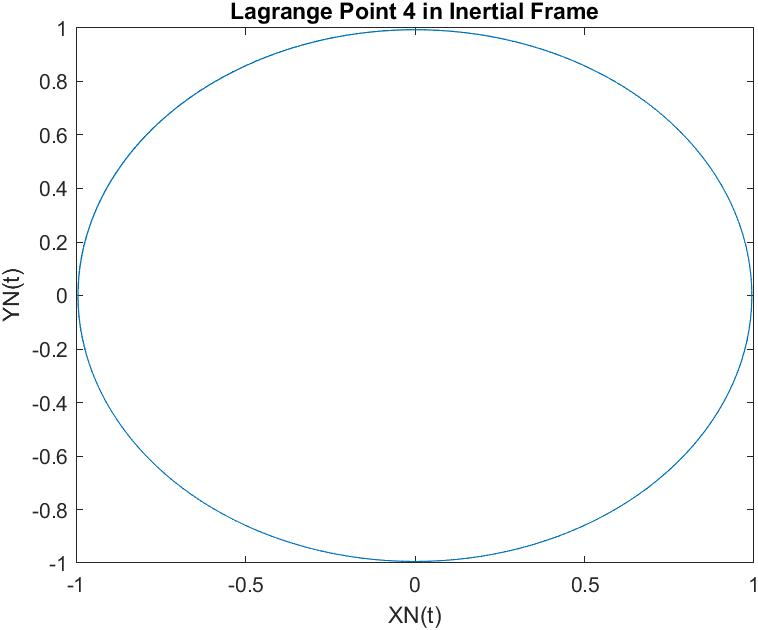
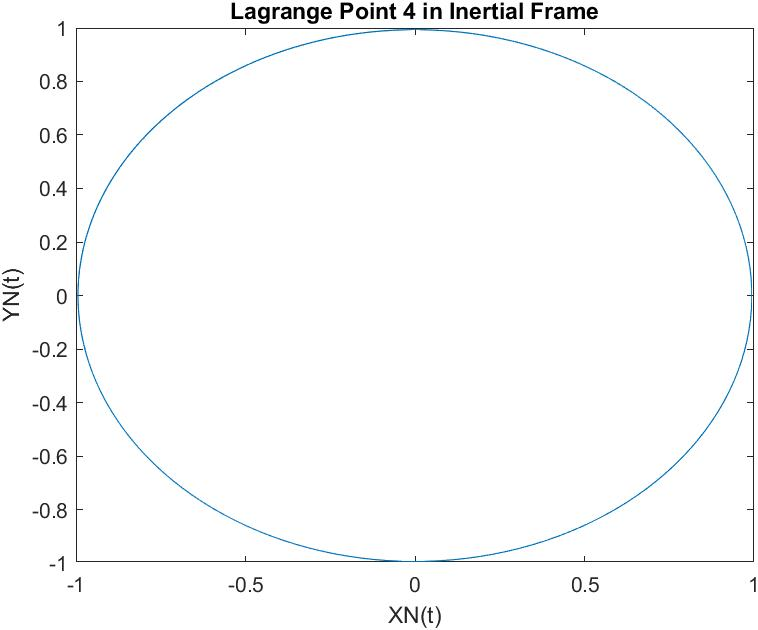
small update to variable names

diff --git a/AERSP304_Proj1.m b/AERSP304_Proj1.m
@@ -9,35 +9,32 @@ load('EM_L2-304P1');
 
 pnts = 1000;    % number of descretizations of time
 
-t = linspace(0,T,pnts);         % Set up our time step
+L2_t = linspace(0,T,pnts);         % Set up our time step
 
 options = odeset('reltol',1e-12,'abstol',1e-12);
-[t,x] = ode45(@(t,x) odefun(t,x,MU1), t, x0, options);
+[L2_t,L2_x] = ode45(@(L2_t,L2_x) odefun(L2_t,L2_x,MU1), L2_t, x0, options);
 
 % Convert to Inertial Frame
 for i = 1:pnts
-XI(i) = cos(t(i))*x(i,1)-sin(t(i))*x(i,2);
-YI(i) = sin(t(i))*x(i,1)+cos(t(i))*x(i,2);
+L2_XI(i) = cos(L2_t(i))*L2_x(i,1)-sin(L2_t(i))*L2_x(i,2);
+L2_YI(i) = sin(L2_t(i))*L2_x(i,1)+cos(L2_t(i))*L2_x(i,2);
 end
 
 % Perturbed Solution
-initP = x0+perturbation';
+L2_initP = x0+perturbation';
 options = odeset('reltol',1e-12,'abstol',1e-12);
-[t,xP] = ode45(@(t,x) odefun(t,x,MU1), t, initP, options);
-%xp = x - xP ;
-%departX(:,1) = sqrt(xP(:,1).^2+xP(:,2).^2);
-%departX(:,2) = sqrt(xP(:,3).^2+xP(:,4).^2);
-deltax = xP - x;
-deltaxpos = sqrt((deltax(:,1)).^2+(deltax(:,2)).^2);
-deltaxvel = sqrt((deltax(:,3)).^2+(deltax(:,4)).^2);
+[L2_t,xP] = ode45(@(t,x) odefun(t,x,MU1), L2_t, L2_initP, options);
+L2_deltaX = xP - L2_x;
+L2_deltaXPos = sqrt((L2_deltaX(:,1)).^2+(L2_deltaX(:,2)).^2);
+L2_deltaXVel = sqrt((L2_deltaX(:,3)).^2+(L2_deltaX(:,4)).^2);
 
 % linearized
-[linPos,linVel] = linearizer(initP(1), initP(2), t, MU1, pnts, perturbation) ;
+[L2_linPos,L2_linVel] = linearizer(L2_initP(1), L2_initP(2), L2_t, MU1, pnts, perturbation) ;
  
 
 % plots nominal for L2 in B frame
 figure
-plot(x(:,1),x(:,2));
+plot(L2_x(:,1),L2_x(:,2));
 title('yN(t) vs. xN(t), Nominal, Lagrange Point 2');
 xlabel('xN(t)');
 ylabel('yN(t)');
@@ -46,7 +43,7 @@ exportgraphics(ax,'L2_Bframe.jpg')
 
 % plots L2 in inertial frame
 figure
-plot(XI,YI)
+plot(L2_XI,L2_YI)
 title('Lagrange Point 2 in Inertial Frame')
 xlabel('XN(t)');
 ylabel('YN(t)');
@@ -55,12 +52,13 @@ exportgraphics(ax,'L2_Nframe.jpg')
 
 % plots L2 departure position and velocity vs time
 figure
-plot(t,deltaxpos);      % Plots departure postion vs time
+subplot(2,1,1)
+plot(L2_t,L2_deltaXPos);      % Plots departure postion vs time
 title('Lagrange Point 2, departure position vs time');
 xlabel('time')
 ylabel('departure position')
-figure
-plot(t,deltaxvel);      % Plots departure velocity vs time
+subplot(2,1,2)
+plot(L2_t,L2_deltaXVel);      % Plots departure velocity vs time
 title('Lagrange 2, departure velocity vs time');
 xlabel('time');
 ylabel('departure velocity');
@@ -70,9 +68,9 @@ ylabel('departure velocity');
 % plots linearized solution and departure solution vs time
 figure
 subplot(2,1,1)
-plot(t,linPos);
+plot(L2_t,L2_linPos);
 hold on 
-plot(t,deltaxpos);
+plot(L2_t,L2_deltaXPos);
 hold off
 title('Lagrange Point 2 departure vs linearized Position')
 xlabel('t')
@@ -81,9 +79,9 @@ legend('linear','departure')
 ax = gca ;
 
 subplot(2,1,2)
-plot(t,linVel);
+plot(L2_t,L2_linVel);
 hold on 
-plot(t,deltaxvel);
+plot(L2_t,L2_deltaXVel);
 hold off
 title('Lagrange Point 2 departure vs linearized Velocity')
 xlabel('t')
@@ -97,33 +95,32 @@ ax = gca ;
 
 load('EM_L4-304P1')
 
-t = linspace(0,T,pnts);         % Set up our time step
+L4_t = linspace(0,T,pnts);         % Set up our time step
 
 options = odeset('reltol',1e-12,'abstol',1e-12);
-[t,x] = ode45(@(t,x) odefun(t,x,MU1), t, x0, options);
+[L4_t,L4_x] = ode45(@(L4_t,L4_x) odefun(L4_t,L4_x,MU1), L4_t, x0, options);
 
 % Convert to Inertial Frame
 for i = 1:pnts
-XI(i) = cos(t(i))*x(i,1)-sin(t(i))*x(i,2);
-YI(i) = sin(t(i))*x(i,1)+cos(t(i))*x(i,2);
+L4_XI(i) = cos(L4_t(i))*L4_x(i,1)-sin(L4_t(i))*L4_x(i,2);
+L4_YI(i) = sin(L4_t(i))*L4_x(i,1)+cos(L4_t(i))*L4_x(i,2);
 end
 
 % Perturbed Solution
-initP = x0'+perturbation';
+L4_initP = x0'+perturbation';
 options = odeset('reltol',1e-12,'abstol',1e-12);
-[t,xP] = ode45(@(t,x) odefun(t,x,MU1), t, initP , options);
-
-deltax = xP - x;
-deltaxpos = sqrt((deltax(:,1)).^2+(deltax(:,2)).^2);
-deltaxvel = sqrt((deltax(:,3)).^2+(deltax(:,4)).^2);
+[L4_t,xP] = ode45(@(t,x) odefun(t,x,MU1), L4_t, L4_initP , options);
+L4_deltaX = xP - L4_x;
+L4_deltaXPos = sqrt((L4_deltaX(:,1)).^2+(L4_deltaX(:,2)).^2);
+L4_deltaXVel = sqrt((L4_deltaX(:,3)).^2+(L4_deltaX(:,4)).^2);
 
 
 % Linearized
-[linPos,linVel] = linearizer(initP(1), initP(2) , t, MU1, pnts, perturbation) ;
+[L4_linPos,L4_linVel] = linearizer(L4_initP(1), L4_initP(2) , L4_t, MU1, pnts, perturbation) ;
 
 % plots nominal for L4 in B frame
 figure
-plot(x(:,1),x(:,2))
+plot(L4_x(:,1),L4_x(:,2))
 title('yN(t) vs. xN(t), Nominal, Lagrange Point 4');
 xlabel('xN(t)');
 ylabel('yN(t)');
@@ -132,7 +129,7 @@ exportgraphics(ax,'L4_Bframe.jpg')
 
 % plots L4 in inertial frame
 figure
-plot(XI,YI)
+plot(L4_XI,L4_YI)
 title('Lagrange Point 4 in Inertial Frame')
 xlabel('XN(t)');
 ylabel('YN(t)');
@@ -141,12 +138,13 @@ exportgraphics(ax,'L4_Nframe.jpg')
 
 % plots departure postion and velocity vs time
 figure
-plot(t,deltaxpos);      % Plots departure postion vs time
+subplot(2,1,1)
+plot(L4_t,L4_deltaXPos);      % Plots departure postion vs time
 xlabel('time');
 ylabel('departure position');
 title('Lagrange point 4, departure position vs time');
-figure
-plot(t,deltaxvel);      % Plots departure velocity vs time
+subplot(2,1,2)
+plot(L4_t,L4_deltaXVel);      % Plots departure velocity vs time
 xlabel('time');
 ylabel('departure velocity');
 title('Lagrange point 4, departure velocity vs time');
@@ -154,9 +152,9 @@ title('Lagrange point 4, departure velocity vs time');
 % linear comparison plot L4
 figure
 subplot(2,1,1)
-plot(t,linPos);
+plot(L4_t,L4_linPos);
 hold on 
-plot(t,deltaxpos);
+plot(L4_t,L4_deltaXPos);
 hold off
 title('Lagrange Point 4 departure vs linearized Position')
 xlabel('t')
@@ -166,9 +164,9 @@ ax = gca ;
 exportgraphics(ax,'L4_LinearPos.jpg')
 
 subplot(2,1,2)
-plot(t,linVel);
+plot(L4_t,L4_linVel);
 hold on 
-plot(t,deltaxvel);
+plot(L4_t,L4_deltaXVel);
 hold off
 title('Lagrange Point 4 departure vs linearized Velocity')
 xlabel('t')
